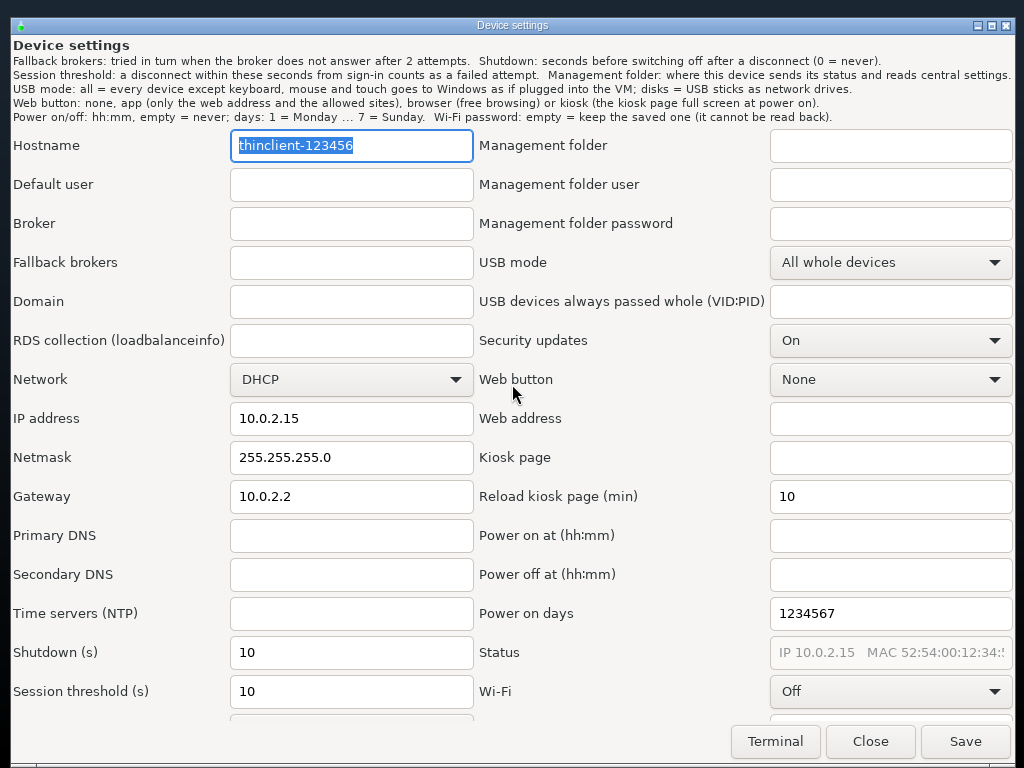
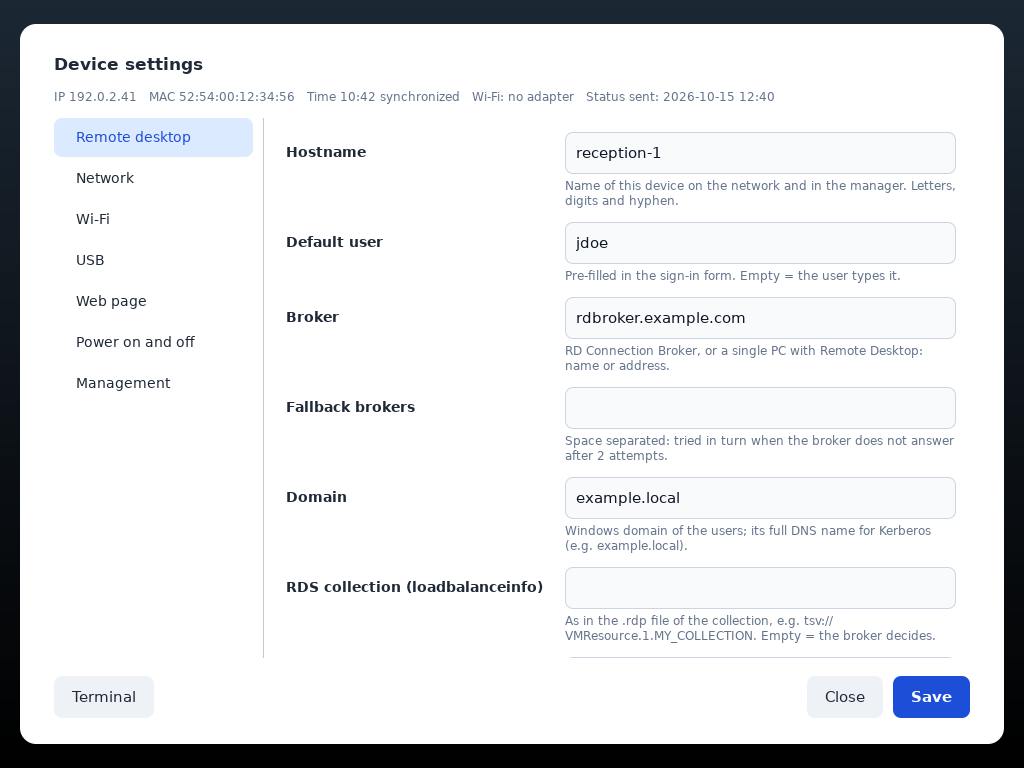
Settings, PIN and diagnostics in the look of the sign-in screen
ui.py form: the settings of the device in sections on the left, the hint of every field under
it, the status under the heading; values and choices from kiosk.sh (settings_spec), KEY=value
back (settings_read), then save-config.sh as before. ui.py pin and ui.py text (diagnostics,
shown while the checks run). Saved and invalid as ui.py messages. Exit 11/12 for close and
terminal, so that anything else (a Python error) falls back to the earlier yad dialogs: the
settings must always open. One hint per field in English and Italian instead of one paragraph.

Closes #28

diff --git a/rootfs/opt/openthinrdp/ui.py b/rootfs/opt/openthinrdp/ui.py
@@ -16,7 +16,10 @@
 #   ui.py toast ...      small notice in the top right corner with the progress of the software update; ends with it.
 #                        --while-file PATH: a plain notice (no bar, warning icon) that stays while PATH exists
 #                        (remote-screen.sh: "Remote assistance active").
-# The admin dialogs (settings, diagnostics, PIN) stay yad windows.
+#   ui.py form ...       the settings of the device: sections on the left, every field with its hint (spec on stdin,
+#                        see below). Exit: 0 = save (KEY=value lines on stdout), 11 = close, 12 = terminal.
+#   ui.py pin ...        the settings PIN: 0 = OK (the PIN on stdout), 11 = cancel.
+#   ui.py text ...       a text read from stdin as it arrives (diagnostics), with Close.
 import argparse, locale, math, os, subprocess, sys, time
 import gi
 gi.require_version('Gtk', '3.0')
@@ -28,6 +31,7 @@ ap = argparse.ArgumentParser()
 for a in ('class', 'title', 'heading', 'text', 'small', 'info', 'note', 'user', 'logo', 'splash', 'top', 'bottom',
           'web', 'icon', 'timeout', 'primary', 'default', 'lang',
           't-user', 't-password', 't-signin', 't-shutdown', 't-restart', 't-settings', 't-diag', 't-power',
+          't-save', 't-close', 't-terminal',
           'open-power'):     # open-power: tests only, the power menu open (for a screenshot)
     ap.add_argument('--' + a, default='')
 ap.add_argument('--button', action='append', default=[])
@@ -77,6 +81,19 @@ popover button { background: transparent; border: none; box-shadow: none; backgr
                  font-size: 14px; min-height: 38px; padding: 0 18px; }
 popover button:hover { background: #eef2f7; }
 .toast { background: #ffffff; border-radius: 12px; padding: 14px 18px; }
+.card combobox button { min-height: 40px; font-size: 15px; border-radius: 8px; border: 1px solid #cbd5e1; background: #f8fafc;
+                        background-image: none; box-shadow: none; color: #111827; padding: 0 10px; text-shadow: none; }
+.card combobox button:focus { border-color: #2563eb; }
+.field { color: #1f2937; font-size: 14px; font-weight: bold; }
+.hint { color: #64748b; font-size: 12px; }
+.card entry.readonly { background: #f1f5f9; color: #475569; }
+stacksidebar { border-right: 1px solid #e5e7eb; }
+stacksidebar list { background: transparent; }
+stacksidebar separator { min-height: 0; background: transparent; }
+stacksidebar row { padding: 11px 16px; border-radius: 8px; margin: 0 10px 2px 0; color: #1f2937; font-size: 14px; }
+stacksidebar row:selected { background: #dbeafe; color: #1d4ed8; }
+stacksidebar row:hover:not(:selected) { background: #f1f5f9; }
+.mono { font-family: Monospace; font-size: 13px; color: #111827; }
 """
 
 # icons drawn here: the image has no icon theme. White on the background, coloured in a card.
@@ -283,6 +300,119 @@ if MODE == 'message':
     win.show_all()
     if A.default in buttons: buttons[A.default].grab_focus()
     elif buttons: list(buttons.values())[0].grab_focus()
+    Gtk.main(); sys.exit(code)
+
+def left_label(text, cls, chars=70):
+    l = Gtk.Label(label=text, xalign=0); l.get_style_context().add_class(cls)
+    l.set_line_wrap(True); l.set_max_width_chars(chars); l.set_justify(Gtk.Justification.LEFT)
+    return l
+
+def button(text, cls, cb):
+    b = Gtk.Button(label=text); b.get_style_context().add_class(cls); b.connect('clicked', cb); return b
+
+# Exit codes of the admin screens: 0 = save / OK, 11 = close / cancel, 12 = terminal. Anything else (a Python error)
+# makes kiosk.sh fall back to its yad dialogs: the settings are also how a device in trouble is put right.
+if MODE in ('form', 'text') and sp:
+    mid.remove(sp)       # the card takes the screen: no background picture above it
+
+# --- settings of the device ------------------------------------------------------------------------------------
+# On stdin, one line per section and per field, tab separated:
+#   S  title
+#   F  KEY  type  label  value  choices  hint        type: text, password, choice (choices "value=label|..."), ro
+# Save prints KEY=value for every field but ro, in their order. --small = a status line under the heading.
+if MODE == 'form':
+    card.set_size_request(min(1060, SW - 40), min(720, SH - 40)); card.set_spacing(14)
+    card.pack_start(left_label(A.heading, 'heading'), False, False, 0)
+    if A.small: card.pack_start(left_label(A.small.replace('\\n', '\n'), 'small', 140), False, False, 0)
+    stack = Gtk.Stack(); stack.set_transition_type(Gtk.StackTransitionType.CROSSFADE)
+    side = Gtk.StackSidebar(); side.set_stack(stack); side.set_size_request(210, -1)
+    fields, grid, row, n = [], None, 0, 0
+    for line in sys.stdin.read().split('\n'):
+        p = line.split('\t')
+        if p[0] == 'S' and len(p) > 1:
+            grid = Gtk.Grid(column_spacing=22, row_spacing=4); grid.set_margin_start(22); grid.set_margin_end(14)
+            grid.set_margin_top(4); grid.set_margin_bottom(10); row = 0; n += 1
+            sc = Gtk.ScrolledWindow(); sc.set_policy(Gtk.PolicyType.NEVER, Gtk.PolicyType.AUTOMATIC); sc.add(grid)
+            stack.add_titled(sc, 'page%d' % n, p[1])
+        elif p[0] == 'F' and grid is not None:
+            key, typ, lab, val, ch, hint = (p[1:] + [''] * 6)[:6]
+            if typ == 'choice':
+                w = Gtk.ComboBoxText()
+                for c in ch.split('|'):
+                    v, _, t = c.partition('='); w.append(v, t or v)
+                if not w.set_active_id(val): w.set_active(0)
+            else:
+                w = Gtk.Entry(); w.set_text(val)
+                if typ == 'password':
+                    w.set_visibility(False); w.set_input_purpose(Gtk.InputPurpose.PASSWORD)
+                if typ == 'ro':
+                    w.set_editable(False); w.set_can_focus(False); w.get_style_context().add_class('readonly')
+            w.set_hexpand(True); w.set_valign(Gtk.Align.CENTER)
+            fl = Gtk.Label(label=lab, xalign=0); fl.get_style_context().add_class('field'); fl.set_size_request(230, -1)
+            fl.set_line_wrap(True); fl.set_max_width_chars(28); fl.set_margin_top(10)
+            w.set_margin_top(10)
+            grid.attach(fl, 0, row, 1, 1); grid.attach(w, 1, row, 1, 1); row += 1
+            if hint:
+                grid.attach(left_label(hint, 'hint', 72), 1, row, 1, 1); row += 1
+            if typ != 'ro': fields.append((key, typ, w))
+    body = Gtk.Box(spacing=0); body.pack_start(side, False, False, 0); body.pack_start(stack, True, True, 0)
+    card.pack_start(body, True, True, 0)
+    def save(*_):
+        out = []
+        for key, typ, w in fields:
+            v = (w.get_active_id() or '') if typ == 'choice' else w.get_text()
+            out.append('%s=%s' % (key, v.replace('\n', ' ')))
+        leave(0, '\n'.join(out))
+    bar = Gtk.Box(spacing=10); bar.set_margin_top(4)
+    if A.t_terminal: bar.pack_start(button(A.t_terminal, 'secondary', lambda *_: leave(12)), False, False, 0)
+    bs = button(A.t_save or 'Save', 'primary', save); bc = button(A.t_close or 'Close', 'secondary', lambda *_: leave(11))
+    bar.pack_end(bs, False, False, 0); bar.pack_end(bc, False, False, 0)
+    card.pack_start(bar, False, False, 0)
+    win.connect('key-press-event', lambda _w, e: e.keyval == Gdk.KEY_Escape and leave(11))
+    code = 11
+    win.show_all()
+    if A.open_power and A.open_power.isdigit():           # tests: show that section (for a screenshot)
+        stack.set_visible_child_name('page' + A.open_power)
+    Gtk.main(); sys.exit(code)
+
+# --- the settings PIN ------------------------------------------------------------------------------------------
+# OK prints the PIN typed (exit 0); Cancel 11
+if MODE == 'pin':
+    card.set_size_request(min(400, SW - 40), -1)
+    card.pack_start(icon('gear', 40, COLORS['info'], 1.0), False, False, 0)
+    card.pack_start(label(A.heading, 'heading'), False, False, 2)
+    if A.text: card.pack_start(label(A.text, 'text'), False, False, 0)
+    ep = Gtk.Entry(visibility=False); ep.set_input_purpose(Gtk.InputPurpose.PIN); card.pack_start(ep, False, False, 4)
+    row = Gtk.Box(spacing=10, halign=Gtk.Align.CENTER); row.set_margin_top(6)
+    ok = lambda *_: leave(0, ep.get_text()) if ep.get_text() else ep.grab_focus()
+    row.pack_start(button(A.t_close or 'Cancel', 'secondary', lambda *_: leave(11)), False, False, 0)
+    row.pack_start(button(A.t_save or 'OK', 'primary', ok), False, False, 0)
+    card.pack_start(row, False, False, 0)
+    ep.connect('activate', ok)
+    win.connect('key-press-event', lambda _w, e: e.keyval == Gdk.KEY_Escape and leave(11))
+    code = 11
+    win.show_all(); ep.grab_focus()
+    Gtk.main(); sys.exit(code)
+
+# --- a text read from stdin as it comes (diagnostics) ----------------------------------------------------------
+if MODE == 'text':
+    card.set_size_request(min(900, SW - 40), min(600, SH - 40)); card.set_spacing(12)
+    card.pack_start(left_label(A.heading, 'heading'), False, False, 0)
+    if A.text: card.pack_start(left_label(A.text, 'small', 120), False, False, 0)
+    tv = Gtk.TextView(editable=False, cursor_visible=False, wrap_mode=Gtk.WrapMode.WORD_CHAR)
+    tv.get_style_context().add_class('mono'); tv.set_left_margin(4)
+    sc = Gtk.ScrolledWindow(); sc.add(tv); card.pack_start(sc, True, True, 0)
+    buf = tv.get_buffer()
+    def on_text(src, cond):
+        data = os.read(sys.stdin.fileno(), 65536)
+        if not data: return False
+        buf.insert(buf.get_end_iter(), data.decode('utf-8', 'replace')); return True
+    GLib.io_add_watch(sys.stdin, GLib.PRIORITY_DEFAULT, GLib.IO_IN | GLib.IO_HUP, on_text)
+    row = Gtk.Box(); bc = button(A.t_close or 'Close', 'primary', lambda *_: leave(0)); row.pack_end(bc, False, False, 0)
+    card.pack_start(row, False, False, 0)
+    win.connect('key-press-event', lambda _w, e: e.keyval == Gdk.KEY_Escape and leave(0))
+    code = 0
+    win.show_all(); bc.grab_focus()
     Gtk.main(); sys.exit(code)
 
 # --- sign-in screen --------------------------------------------------------------------------------------------
